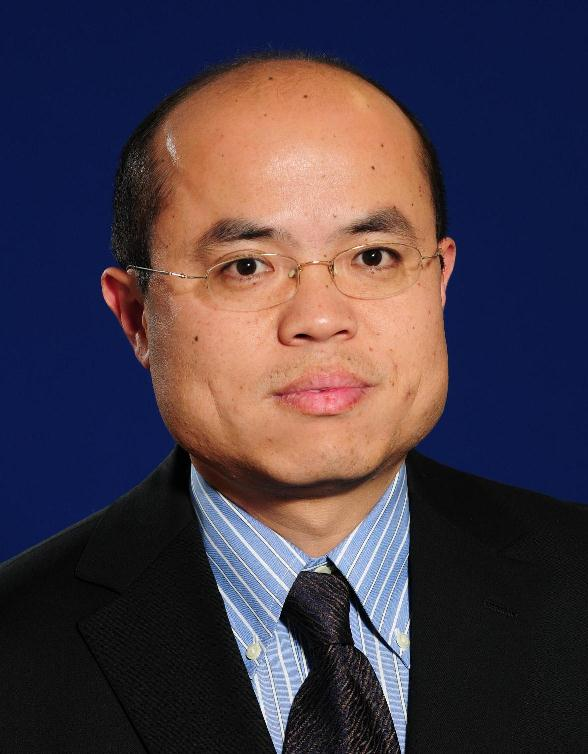
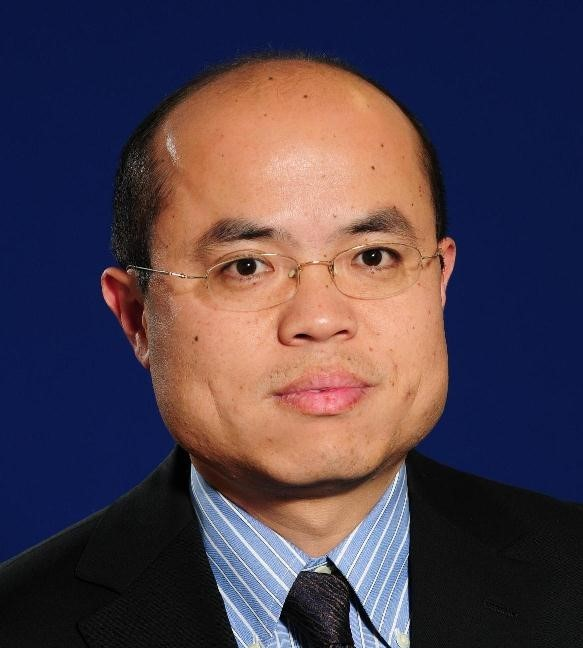
1

diff --git a/schedule.html b/schedule.html
@@ -134,12 +134,12 @@
 							<tr>
 								<td>3:00-3:45</td>
 								<td><em><a href="/danqi">Keynote: TBD</a></em></td>
-								<td>Shuiwang Ji <br /><img src="images/Ji.jpg" class="img-responsive img-circle" style="height:100px;"></td>
+								<td>Shuiwang Ji <br /><img src="images/Ji.jpg" class="img-responsive img-circle" style="width:100px;"></td>
 							</tr>
 							<tr>
 								<td>3:45-4:30</td>
 								<td><em><a href="/danqi">Keynote: TBD</a></em></td>
-								<td>Jian Tang<br /><img src="images/jian.jpg" class="img-responsive img-circle" style="height:100px;"></td>
+								<td>Jian Tang<br /><img src="images/jian.jpg" class="img-responsive img-circle" style="width:100px;"></td>
 							</tr>
 
 							<tr>
